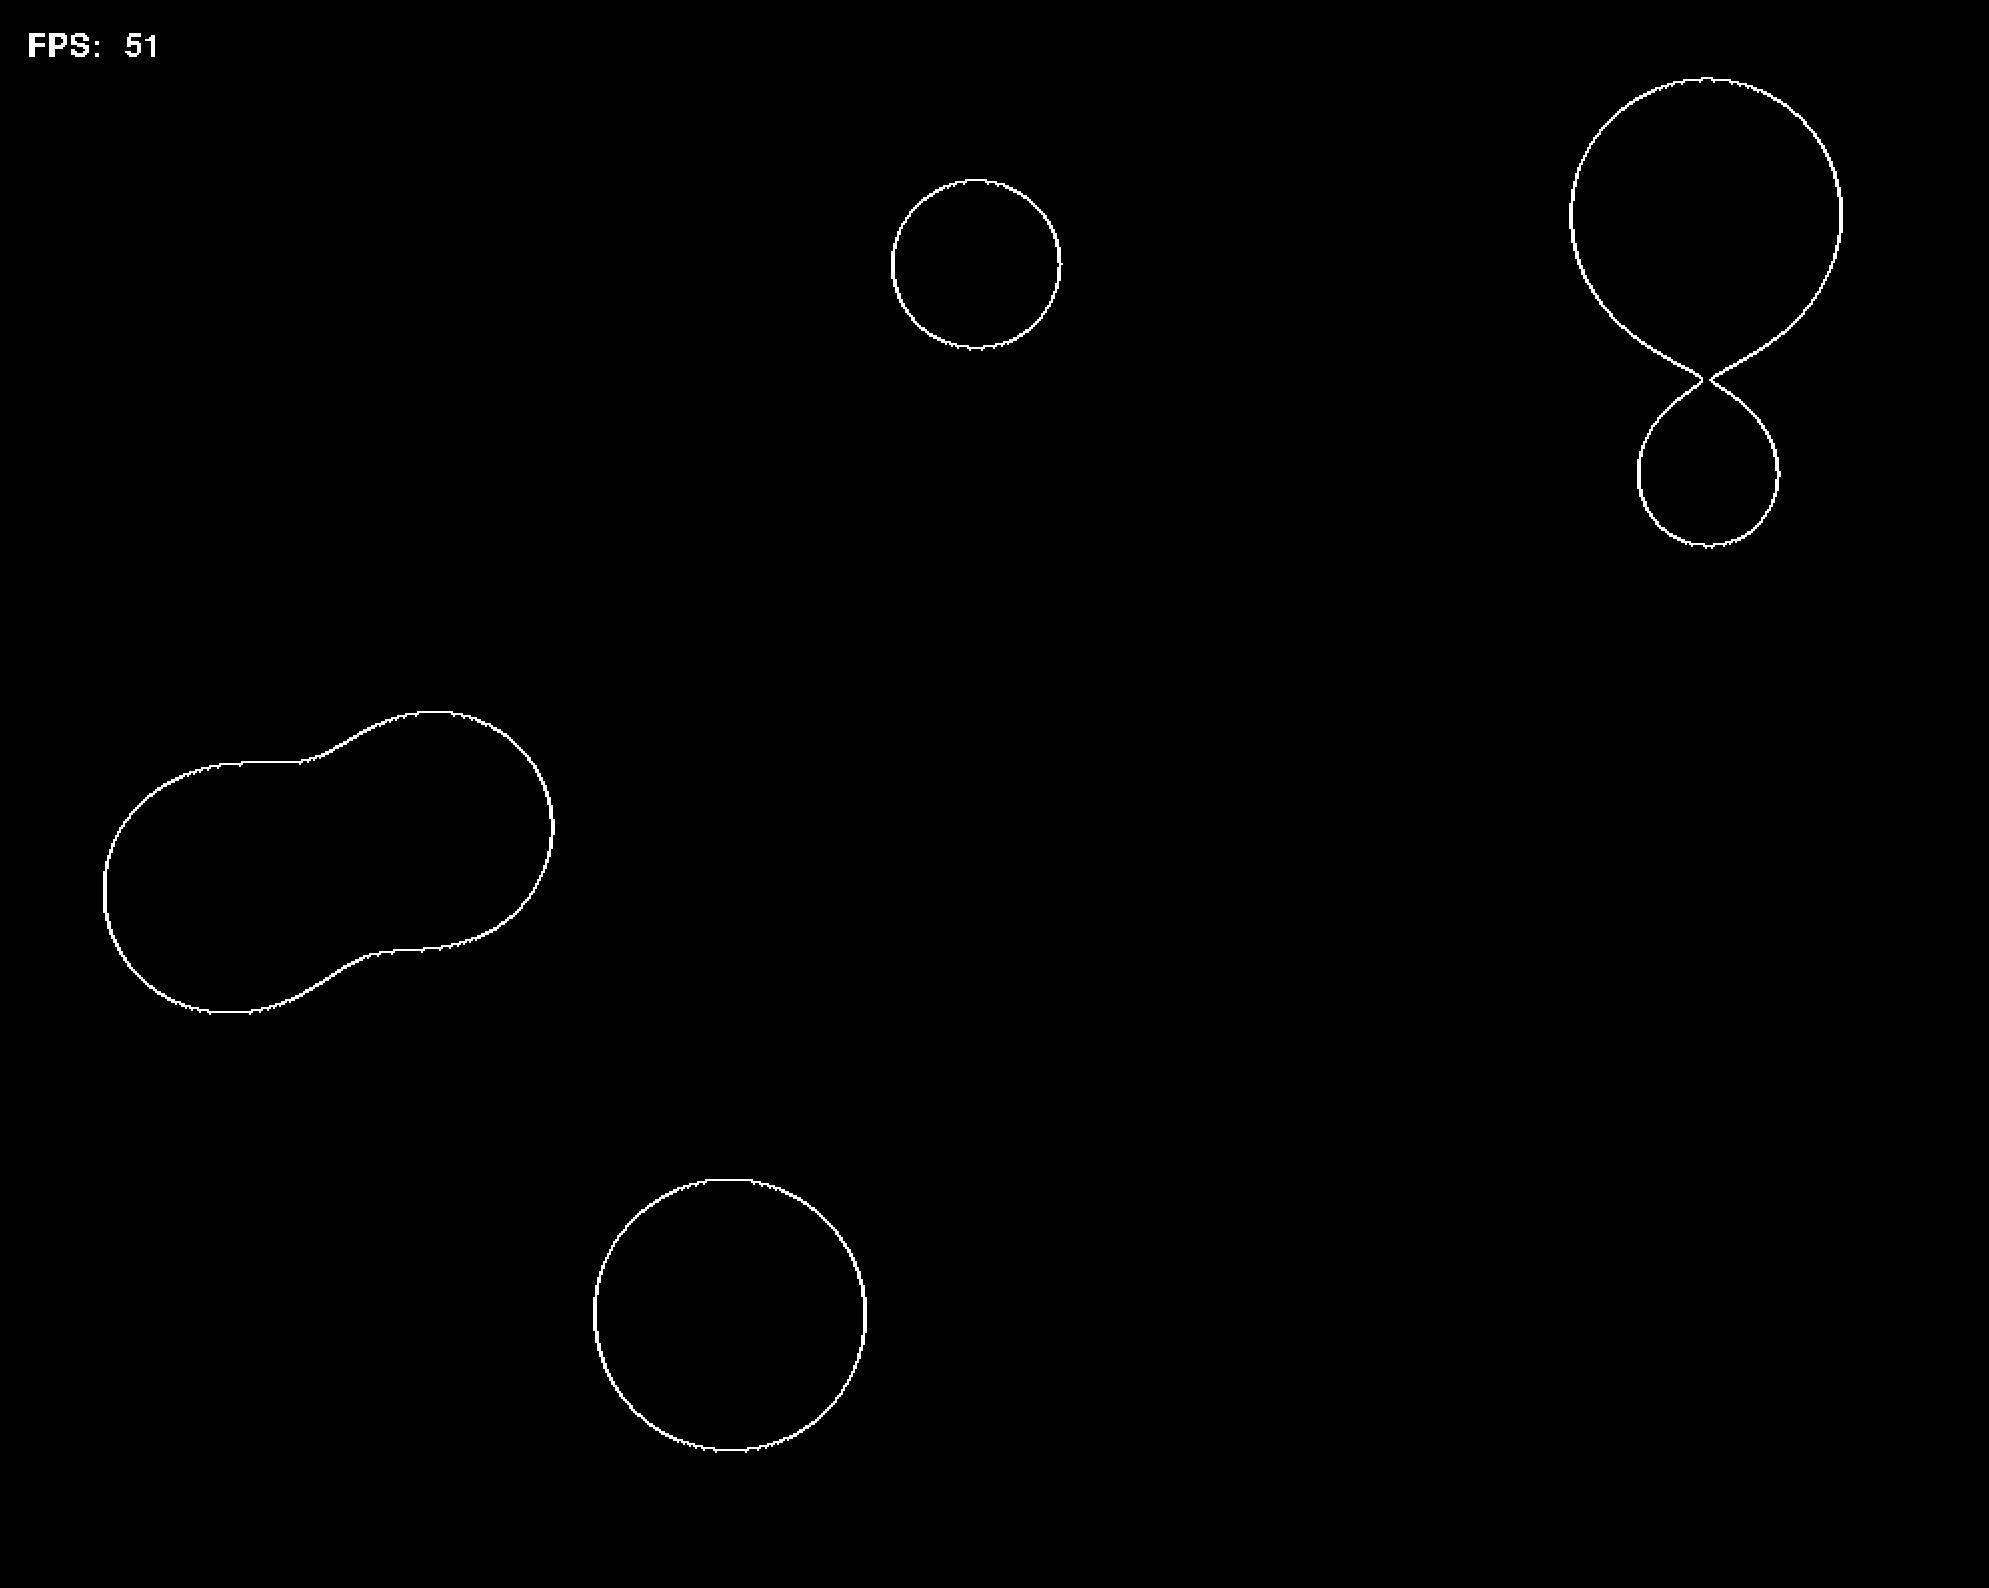
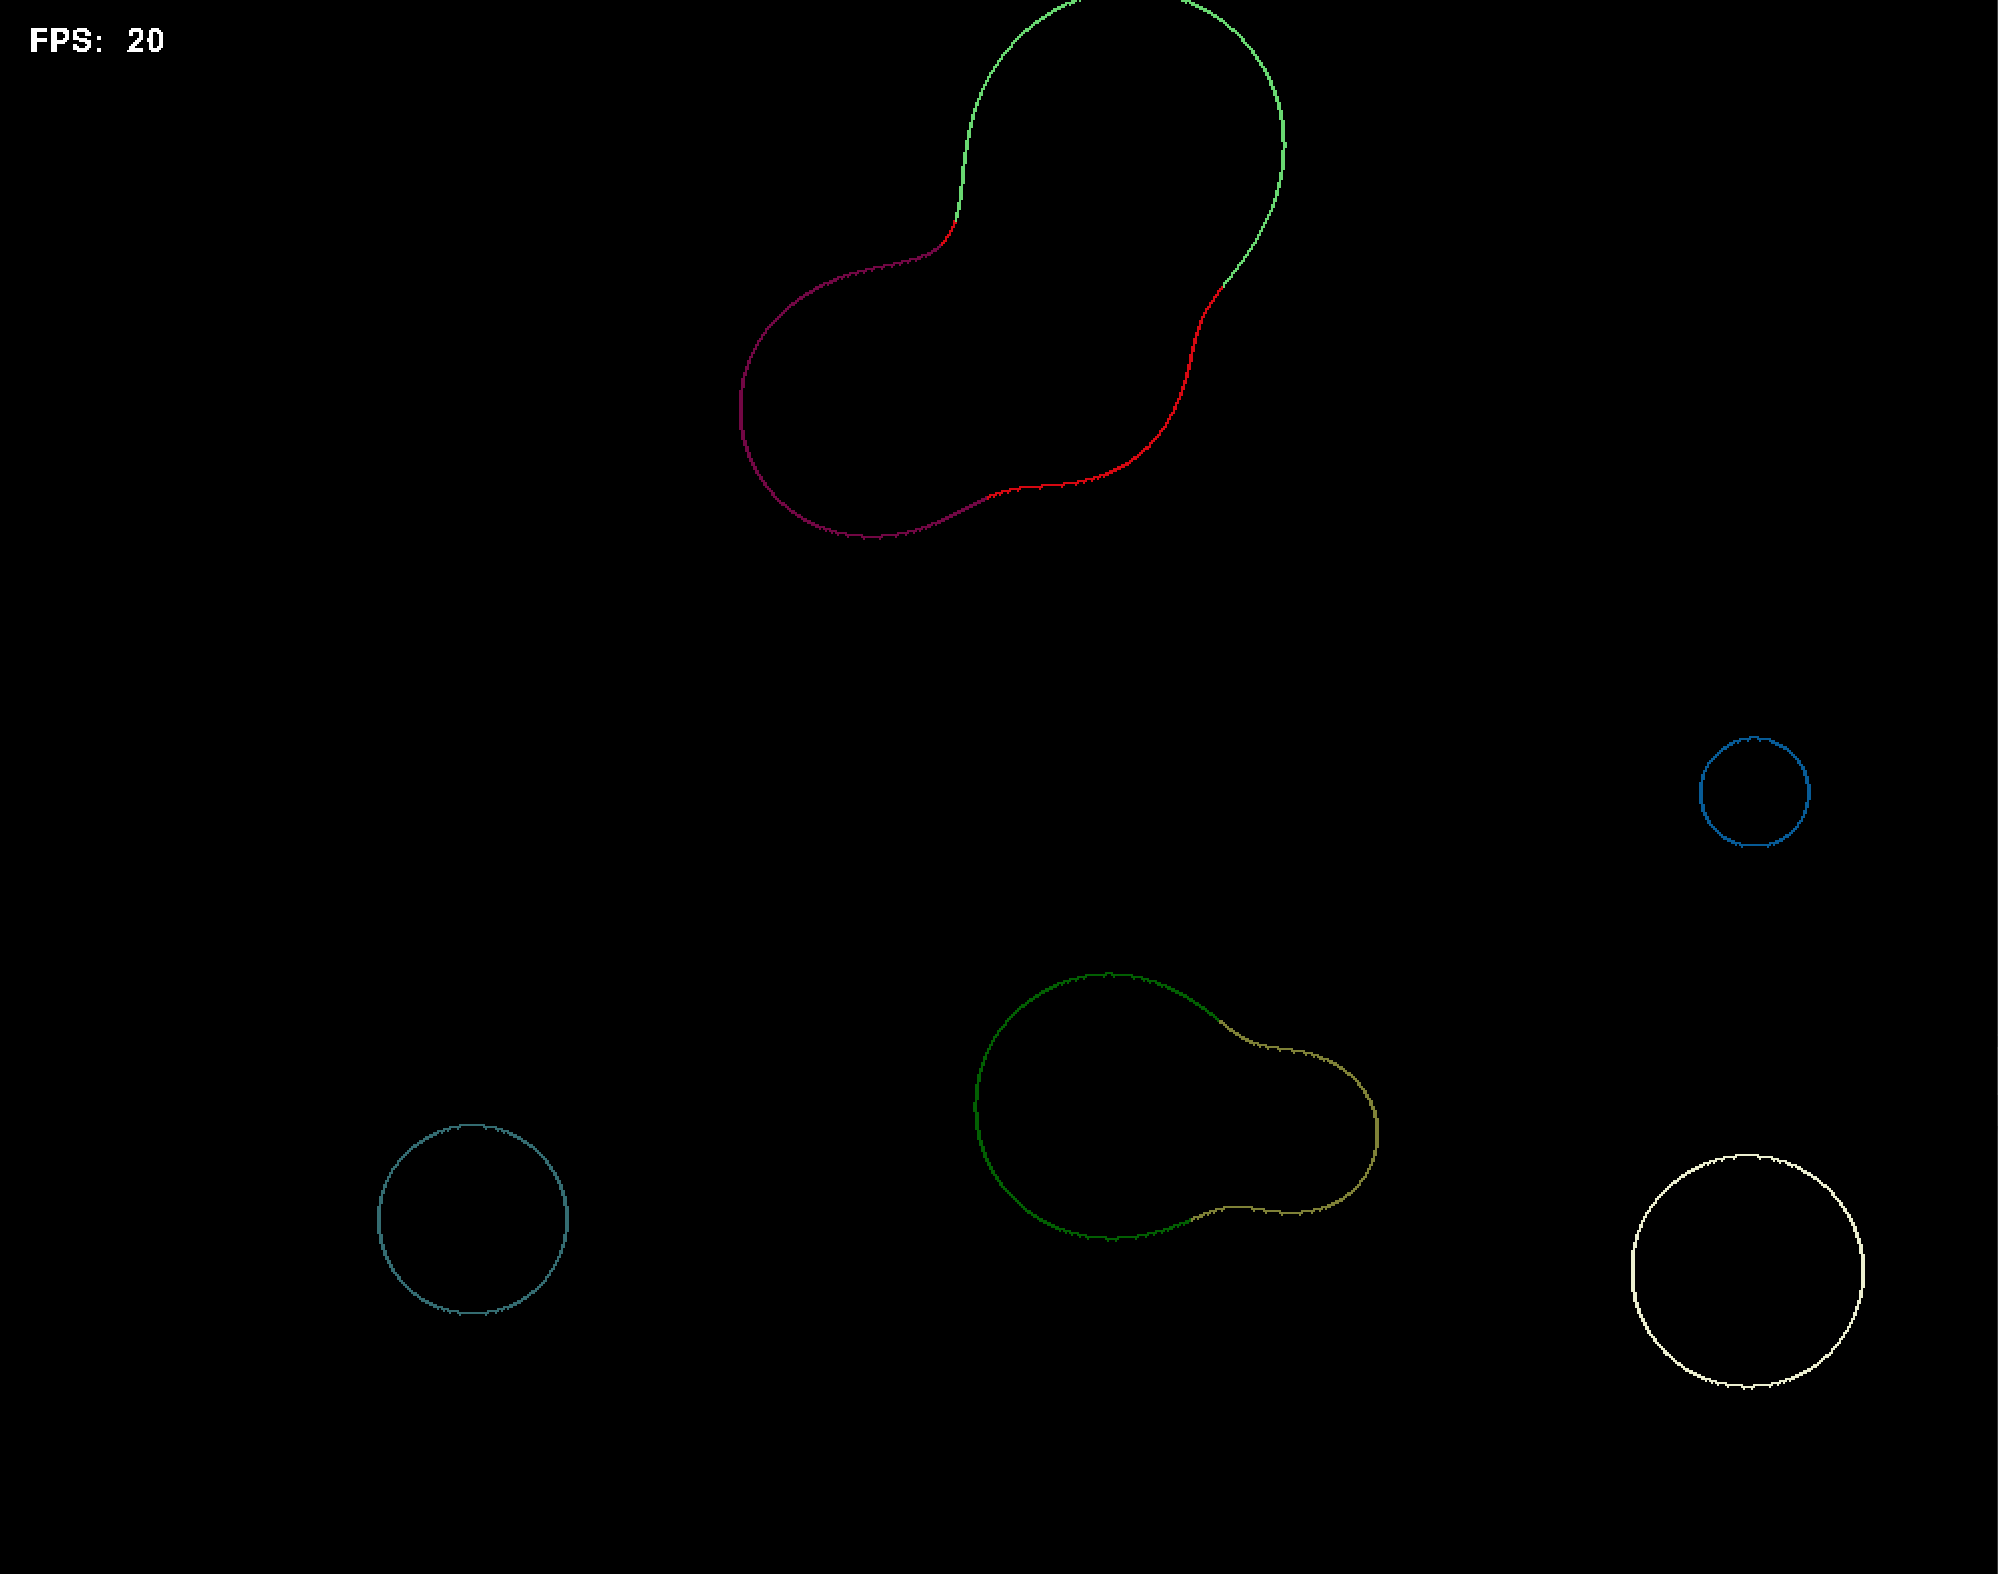
Final commit

diff --git a/metaballs.py b/metaballs.py
@@ -7,20 +7,71 @@ import os
 SCREEN_WIDTH = 1000
 SCREEN_HEIGHT = 800
 CPU_CORES = os.cpu_count()
-DEFAULT_NUM_METABALLS = 6
+DEFAULT_NUM_METABALLS = 5
 GRID_RESOLUTION = 1
+
+def display_menu(screen, font):
+    menu_text = [
+        "MARCHING-METABALL SIMULATION",
+        "",
+        "Controls:",
+        "  SPACE - Reload metaballs",
+        "  UP - Increase metaball count",
+        "  DOWN - Decrease metaball count",
+        "",
+        "Press any key to start..."
+    ]
+
+    screen.fill((0, 0, 0))
+    y_offset = 100
+    for line in menu_text:
+        text = font.render(line, False, (255, 255, 255))
+        screen.blit(text, (SCREEN_WIDTH // 2 - text.get_width() // 2, y_offset))
+        y_offset += 40
+
+    pg.display.flip()
+
+    # Wait for user to press a key
+    waiting = True
+    while waiting:
+        for event in pg.event.get():
+            if event.type == pg.KEYDOWN:
+                waiting = False
+
+# Function to create metaballs with random properties
+def create_metaballs(num_metaballs):
+    """Generate random metaballs"""
+    metaballs = np.recarray(
+        (num_metaballs,), dtype=[("position", ("<f4", (2,))), ("color", ("<f4", (3,))), ("radius", "f4"), ("velocity", ("<f4", (2,)))]
+    )
+    for i in range(metaballs.shape[0]):
+        # Generate metaball properties
+        metaballs[i].radius = np.random.randint(5, 15) * 5
+        metaballs[i].position[0] = np.random.randint(metaballs[i].radius, SCREEN_WIDTH - metaballs[i].radius)
+        metaballs[i].position[1] = np.random.randint(metaballs[i].radius, SCREEN_HEIGHT - metaballs[i].radius)
+        metaballs[i].color = np.random.rand(3)
+        
+        # Normalize the velocity direction
+        metaballs[i].velocity = np.random.rand(2)
+        metaballs[i].velocity = metaballs[i].velocity / np.linalg.norm(metaballs[i].velocity)  # Normalize direction
+        
+        # Scale the velocity by a random speed factor between a chosen range
+        speed_factor = np.random.uniform(0.3, 1.5)
+        metaballs[i].velocity *= speed_factor
+        
+    return metaballs
 
 def update_metaballs(metaballs: np.ndarray, delta_time: float):
     for i in range(metaballs.shape[0]):
-        # Move the metaballs
-        metaballs[i].position += metaballs[i].velocity * delta_time * 80.0
-
         # Bounce off the screen boundaries
         for axis in range(2):
             if metaballs[i].position[axis] < metaballs[i].radius:
                 metaballs[i].velocity[axis] = np.abs(metaballs[i].velocity[axis])
             elif metaballs[i].position[axis] > (SCREEN_WIDTH if axis == 0 else SCREEN_HEIGHT) - metaballs[i].radius:
                 metaballs[i].velocity[axis] = -np.abs(metaballs[i].velocity[axis])
+
+        # Move the metaballs
+        metaballs[i].position += metaballs[i].velocity * delta_time * 80.0
 
         # Bounce off other metaballs
         for j in range(metaballs.shape[0]):
@@ -62,8 +113,9 @@ def compute_scalar_field(metaballs, width, height, grid_size):
 
 # Function implementing the marching squares algorithm
 @nb.njit
-def marching_squares(scalar_field, threshold):
+def marching_squares(scalar_field, threshold, metaballs):
     contours = []
+    color_contours = []
     rows, cols = scalar_field.shape
     for i in range(rows - 1):
         for j in range(cols - 1):
@@ -73,45 +125,56 @@ def marching_squares(scalar_field, threshold):
             if scalar_field[i + 1, j + 1] > threshold: square |= 4
             if scalar_field[i, j + 1] > threshold: square |= 8
 
-            if square in [1, 14]: contours.append(((i, j), (i, j + 1)))
-            if square in [2, 13]: contours.append(((i + 1, j), (i + 1, j + 1)))
-            if square in [4, 11]: contours.append(((i + 1, j + 1), (i, j + 1)))
-            if square in [8, 7]: contours.append(((i, j + 1), (i, j)))
-            if square in [3, 12]: contours.append(((i, j), (i + 1, j)))
-            if square in [6, 9]: contours.append(((i + 1, j), (i, j + 1)))
+            if square in [1, 14]: 
+                contours.append(((i, j), (i, j + 1)))
+                color_contours.append(get_color_for_contour(i, j, metaballs))
+            if square in [2, 13]: 
+                contours.append(((i + 1, j), (i + 1, j + 1)))
+                color_contours.append(get_color_for_contour(i + 1, j, metaballs))
+            if square in [4, 11]: 
+                contours.append(((i + 1, j + 1), (i, j + 1)))
+                color_contours.append(get_color_for_contour(i + 1, j + 1, metaballs))
+            if square in [8, 7]: 
+                contours.append(((i, j + 1), (i, j)))
+                color_contours.append(get_color_for_contour(i, j + 1, metaballs))
+            if square in [3, 12]: 
+                contours.append(((i, j), (i + 1, j)))
+                color_contours.append(get_color_for_contour(i, j, metaballs))
+            if square in [6, 9]: 
+                contours.append(((i + 1, j), (i, j + 1)))
+                color_contours.append(get_color_for_contour(i + 1, j, metaballs))
             if square in [5]: 
                 contours.append(((i, j), (i + 1, j)))
                 contours.append(((i + 1, j + 1), (i, j + 1)))
+                color_contours.append(get_color_for_contour(i, j, metaballs))
+                color_contours.append(get_color_for_contour(i + 1, j + 1, metaballs))
             if square in [10]: 
                 contours.append(((i, j + 1), (i + 1, j + 1)))
                 contours.append(((i + 1, j), (i, j)))
-    return contours
+                color_contours.append(get_color_for_contour(i, j + 1, metaballs))
+                color_contours.append(get_color_for_contour(i + 1, j, metaballs))
+    return contours, color_contours
+
+@nb.njit
+def get_color_for_contour(i, j, metaballs):
+    nearest_ball = 0
+    nearest_distance = float('inf')
+    for k in range(len(metaballs)):
+        dx = i - metaballs[k].position[0]
+        dy = j - metaballs[k].position[1]
+        distance_squared = dx * dx + dy * dy
+        if distance_squared < nearest_distance:
+            nearest_distance = distance_squared
+            nearest_ball = k
+    return metaballs[nearest_ball].color
 
 # Function to draw the contours on the screen
-def draw_contours(screen, contours, grid_size):
-    for contour in contours:
+def draw_contours(screen, contours, color_contours, grid_size):
+    for contour, color in zip(contours, color_contours):
         p1 = (contour[0][0] * grid_size, contour[0][1] * grid_size)
         p2 = (contour[1][0] * grid_size, contour[1][1] * grid_size)
-        pg.draw.line(screen, (255, 255, 255), p1, p2)
+        pg.draw.line(screen, (color[0] * 255, color[1] * 255, color[2] * 255), p1, p2)
 
-# Function to create metaballs with random properties
-def create_metaballs(num_metaballs):
-    """Generate random metaballs"""
-    metaballs = np.recarray(
-        (num_metaballs,), dtype=[("position", ("<f4", (2,))), ("color", ("<f4", (3,))), ("radius", "f4"), ("velocity", ("<f4", (2,)))]
-    )
-    for i in range(metaballs.shape[0]):
-        # Generate metaball properties
-        metaballs[i].radius = np.random.randint(5, 15) * 5
-        metaballs[i].position = (
-            np.random.randint(metaballs[i].radius, SCREEN_WIDTH - metaballs[i].radius),
-            np.random.randint(metaballs[i].radius, SCREEN_HEIGHT - metaballs[i].radius)
-        )
-        metaballs[i].color = np.random.rand(3)
-        metaballs[i].color[i % 3] = 1
-        metaballs[i].velocity = np.random.rand(2)
-        metaballs[i].velocity = metaballs[i].velocity / metaballs[i].velocity.max()
-    return metaballs
 
 # Main function to run the simulation
 def run():
@@ -124,7 +187,7 @@ def run():
     # Create window
     screen = pg.display.set_mode((SCREEN_WIDTH, SCREEN_HEIGHT))
     # Set window title
-    pg.display.set_caption(f"Metaballs {SCREEN_WIDTH}x{SCREEN_HEIGHT}")
+    pg.display.set_caption(f"Marching-Metaballs {SCREEN_WIDTH}x{SCREEN_HEIGHT}")
     # Load system font
     font = pg.font.SysFont(pg.font.get_default_font(), 24)
 
@@ -137,6 +200,7 @@ def run():
     clock = pg.time.Clock()
 
     metaballs = create_metaballs(num_metaballs)
+    print(metaballs.color)
 
     while not done:
         delta_time = clock.tick() / 1000.0  # Get elapsed seconds
@@ -148,18 +212,19 @@ def run():
                 if event.key == pg.K_SPACE:
                     metaballs = create_metaballs(num_metaballs)
                 elif event.key == pg.K_UP:
-                    num_metaballs += 1
+                    num_metaballs = min(10, num_metaballs + 1)
                     metaballs = create_metaballs(num_metaballs)
                 elif event.key == pg.K_DOWN:
                     num_metaballs = max(1, num_metaballs - 1)
                     metaballs = create_metaballs(num_metaballs)
 
-        update_metaballs(metaballs, delta_time)  # Move metaballs
         scalar_field = compute_scalar_field(metaballs, SCREEN_WIDTH, SCREEN_HEIGHT, GRID_RESOLUTION)
-        contours = marching_squares(scalar_field, threshold=1.0)  # Adjust threshold as needed
+        contours, color_contours = marching_squares(scalar_field, threshold=1.0, metaballs=metaballs)  # Adjust threshold as needed
 
         screen.fill((0, 0, 0))
-        draw_contours(screen, contours, GRID_RESOLUTION)
+        draw_contours(screen, contours, color_contours, GRID_RESOLUTION)
+
+        update_metaballs(metaballs, delta_time)  # Move metaballs
         
         # Show FPS
         text = font.render(f"FPS: {clock.get_fps():4.0f}", False, (255, 255, 255))
@@ -167,34 +232,6 @@ def run():
         pg.display.flip()
 
     pg.quit()
-
-def display_menu(screen, font):
-    menu_text = [
-        "METABALL SIMULATION",
-        "",
-        "Controls:",
-        "  SPACE - Reload metaballs",
-        "  UP - Increase metaball count",
-        "  DOWN - Decrease metaball count",
-        "",
-        "Press any key to start..."
-    ]
-
-    screen.fill((0, 0, 0))
-    y_offset = 100
-    for line in menu_text:
-        text = font.render(line, False, (255, 255, 255))
-        screen.blit(text, (SCREEN_WIDTH // 2 - text.get_width() // 2, y_offset))
-        y_offset += 40
-
-    pg.display.flip()
-
-    # Wait for user to press a key
-    waiting = True
-    while waiting:
-        for event in pg.event.get():
-            if event.type == pg.KEYDOWN:
-                waiting = False
 
 if __name__ == "__main__":
     run()
